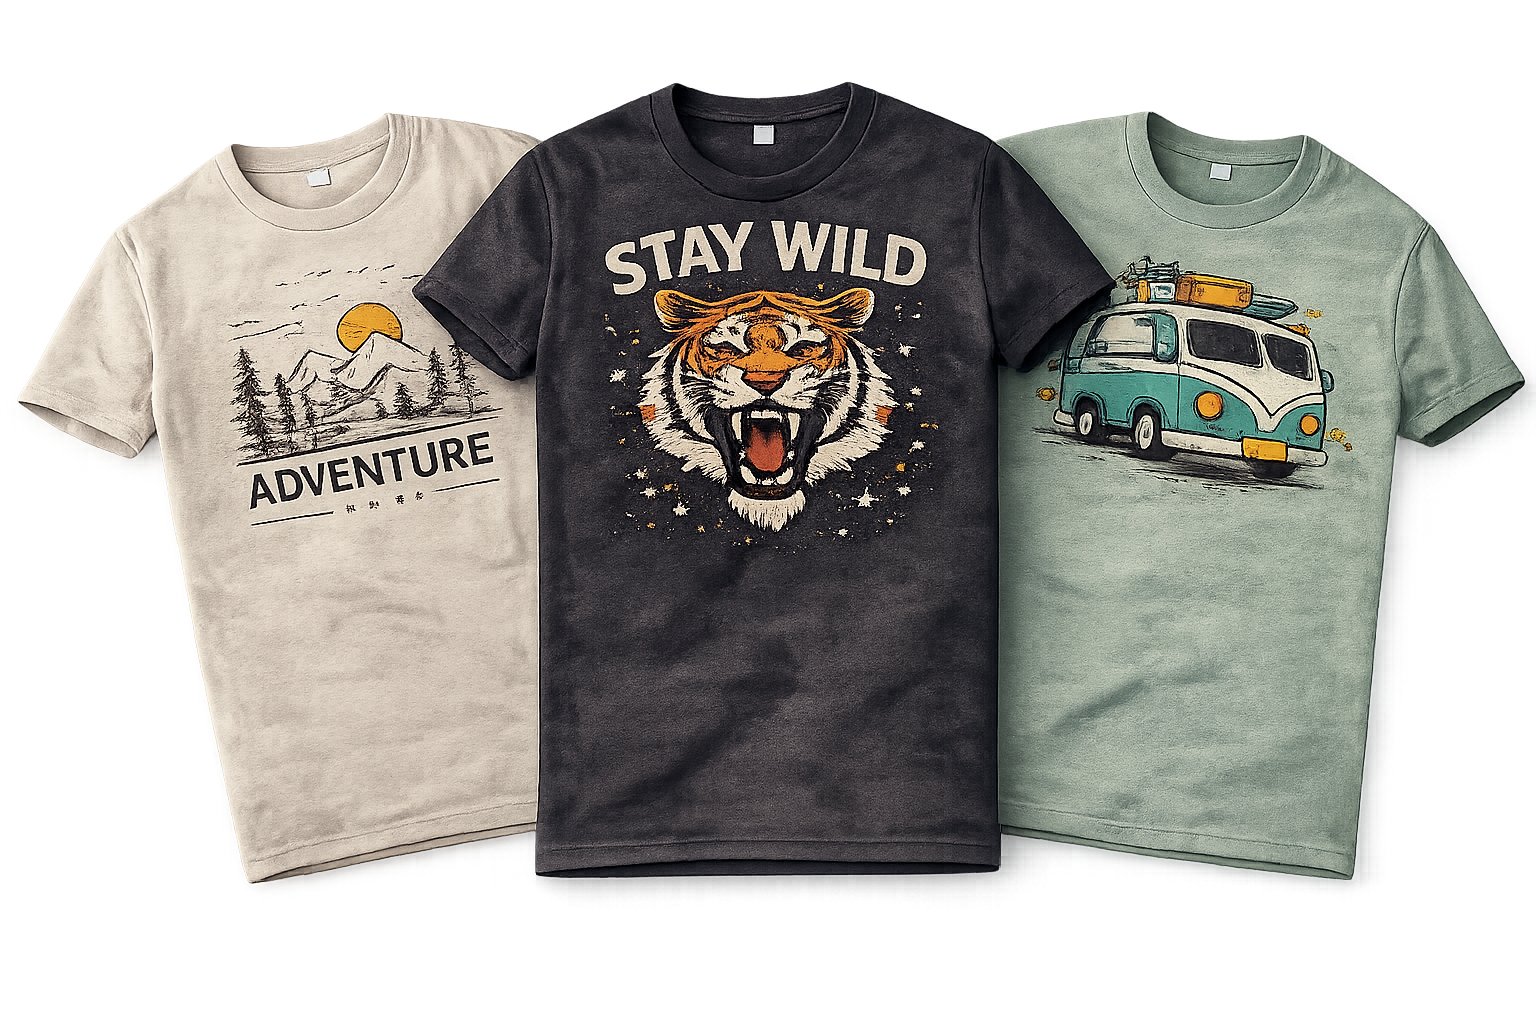
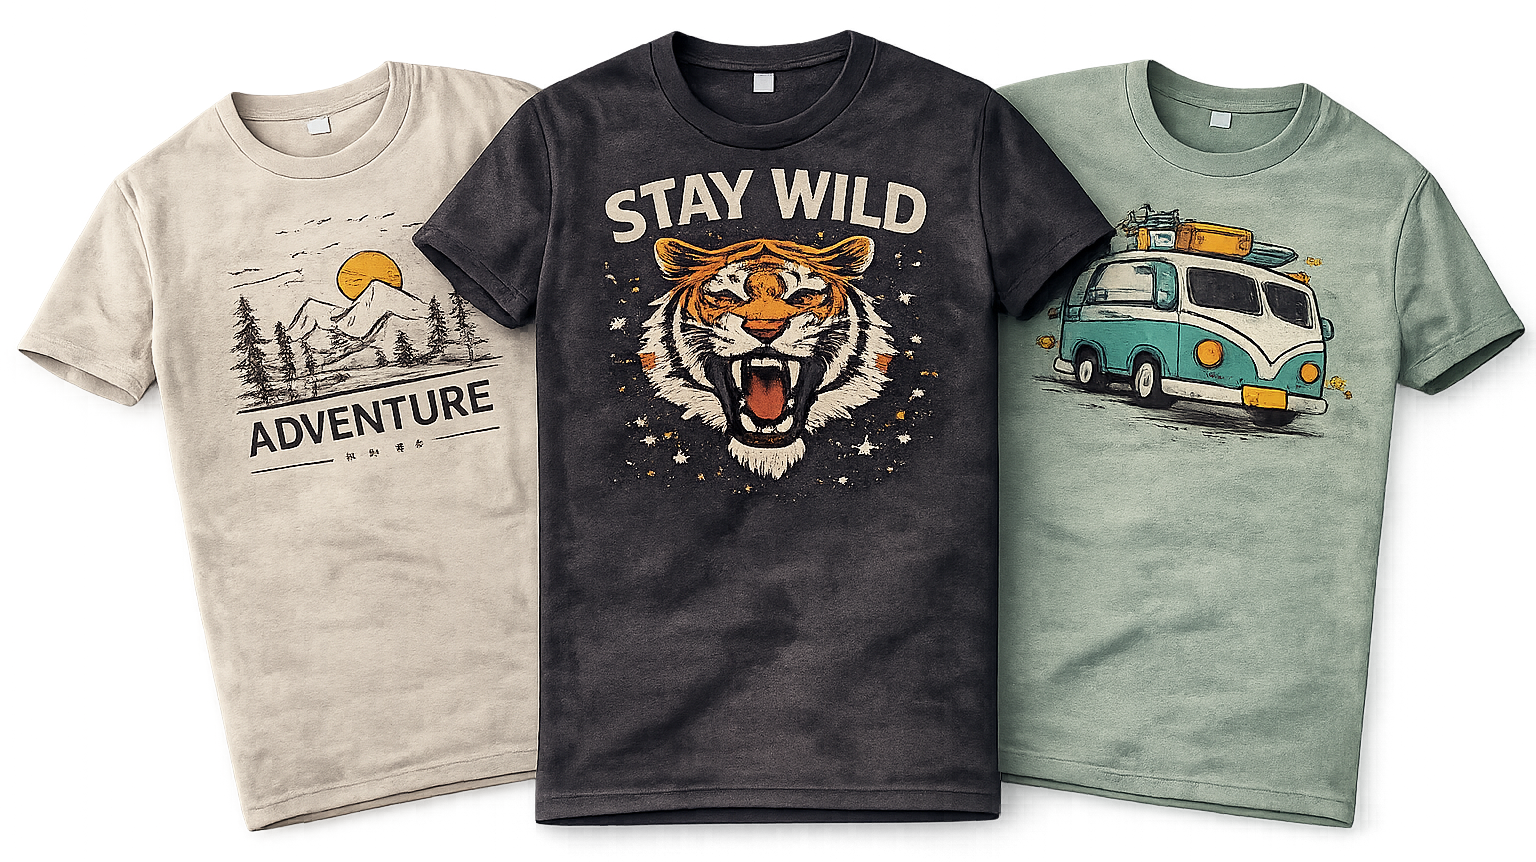
UI Enhancement

diff --git a/frontend/src/App.jsx b/frontend/src/App.jsx
@@ -64,22 +64,22 @@ const App = () => {
   return (
     <>
       <Header />
-      <div className="flex flex-col gap-10 flex-wrap">
+      <div className="flex flex-col gap-10">
         {/* HERO SECTION */}
-        <div className="flex flex-row justify-center items-center gap-18 bg-[#fff6ea] p-15 max-h-[80vh]">
-          <div className="flex flex-col gap-10 w-auto">
+        <div className="p-4 w-full flex flex-row justify-around gap-10 items-center bg-[#fff6ea] flex-wrap">
+          <div className="flex flex-col gap-10 w-100">
             <h2 className="text-[48px]">Shop Awesome T-Shirts</h2>
             <span className="text-[18px] font-medium">High-quality, unique designs at affordable prices</span>
             <button className="p-2 rounded shadow-sm bg-[#ffead0] w-50 self-center hover:shadow-lg duration-200 hover:scale-103 transition-all cursor-pointer">
               View Our Collection
             </button>
           </div>
-          <img src={heroImage} className="h-150" />
+          <img src={heroImage} className="lg:h-118.75 sm:h-90 md:h-110" />
         </div>
         {/* PRODUCTS SECTION */}
         <div className="flex flex-col items-center gap-10 p-6">
           <h2 className="text-[36px]">Featured Products</h2>
-          <div className="flex flex-row gap-10 items-center justify-center">
+          <div className="flex flex-row gap-10 items-center justify-center flex-wrap">
             {tshirts.map((tshirt, index) => (
               <div
                 key={index}
@@ -108,8 +108,8 @@ const App = () => {
         </div>
         {/* TESTIMONIALS SECTION */}
         <div className="flex flex-col items-center gap-10 bg-[#fff6ea] p-6">
-          <h2 className="text-[36px]">What our customers say</h2>
-          <div className="flex flex-row gap-5 items-center justify-center w-full p-6">
+          <h2 className="text-[36px] text-center">What our customers say</h2>
+          <div className="flex flex-row gap-5 items-center justify-center w-full p-6 flex-wrap">
             {testimonials.map((testimonial, index) => (
               <div
                 key={index}
@@ -137,11 +137,11 @@ const App = () => {
           </div>
         </div>
          {/* SUBSCRIBE SECTION */}
-         <div className="flex flex-col items-center gap-10">
-          <h2 className="text-[36px]">Subscribe for Updates</h2>
-          <div className="flex flex-col gap-5 items-center justify-center w-full p-6">
-            <span>Subcribe for receiving latest collection news, promotions and special offers.</span>
-            <div className="flex flex-row gap-3">
+         <div className="p-2 pflex flex-col items-center gap-10">
+          <h2 className="text-[36px] text-center">Subscribe for Updates</h2>
+          <div className="flex flex-col gap-5 items-center justify-center w-full p-6 flex-wrap">
+            <span className="text-center">Subcribe for receiving latest collection news, promotions and special offers.</span>
+            <div className="flex flex-row gap-3 flex-wrap justify-center">
               <input
                 className="p-2 w-[300px] border-gray-300 border-2 rounded-lg focus:outline-0 focus:border-gray-500"
                 type="text"
